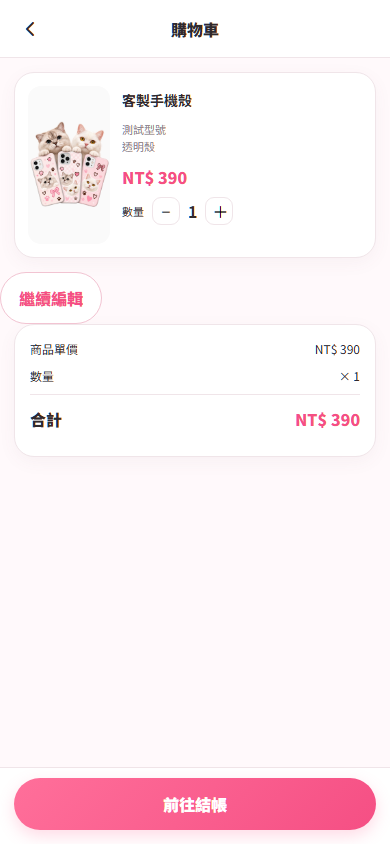
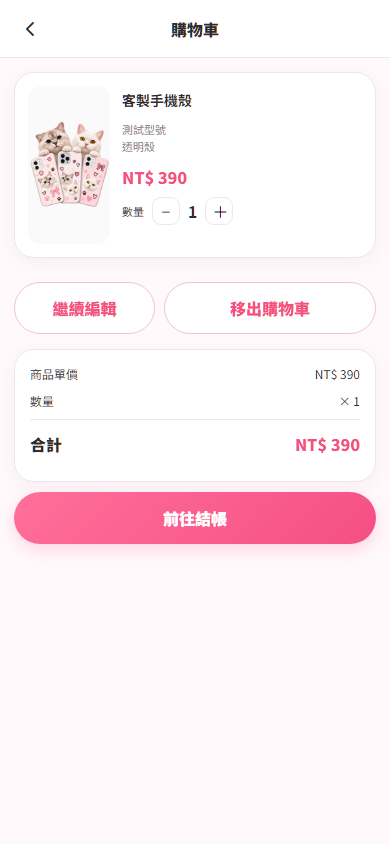
Preserve conflicting edits and verify product changes before checkout

diff --git a/static/front-design-draft-v1.js b/static/front-design-draft-v1.js
@@ -20,7 +20,7 @@
   const INVALID_ERROR = '上次的設計草稿已無法安全恢復，請刪除舊草稿並重新開始。';
   const QUOTA_ERROR = '此設計圖片較大，自動儲存空間不足，請不要關閉頁面。';
 
-  let saveTimer = 0;
+  let saveTimer = 0, dirty = false, changedAt = 0, edits = 0;
   let suspended = false;
   let autosaveEnabled = true;
   let cachedDraft = null;
@@ -55,6 +55,7 @@
     toast(isQuotaError(error) ? QUOTA_ERROR : (error?.message || '草稿未能保存，請不要關閉頁面。'));
   }
   function activate(key, raw) {
+    dirty = false; changedAt = 0;
     activeKey = key;
     revision = raw?.revision || raw?.updatedAt || null;
     draftName = raw?.name || '';
@@ -62,7 +63,7 @@
   }
   function buildDraft() {
     const c = getCanvas(), state = getContext();
-    if (!editorHasSession || !c || !state || !state.modelId || !state.styleId) return null;
+    if ((!editorHasSession && !byId('page-editor')?.classList.contains('active')) || !c || !state || !state.modelId || !state.styleId) return null;
     const canvasJson = structuredClone(c.toDatalessJSON(DRAFT_CUSTOM_PROPS));
     return {
       version: DRAFT_VERSION,
@@ -85,22 +86,23 @@
     let draft;
     try { draft = buildDraft(); } catch (error) { warnSave(error); return false; }
     if (!draft) return false;
-    const key = activeKey;
+    const key = activeKey, captured = edits;
     const run = async () => {
       if (key !== activeKey || suspended || !autosaveEnabled) return false;
       const next = {...draft, name:draftName || [ctx.modelName,ctx.styleName].filter(Boolean).join(' · '), revision:crypto.randomUUID()};
-      let packedCopy;
+      let packed;
       try {
-        packedCopy = await store.pack(next);
-        await store.change(key,revision,()=>packedCopy);
+        packed = await store.pack(next);
+        await store.change(key,revision,()=>packed);
         revision = next.revision;
+        if(captured===edits)dirty=false;
         return true;
       } catch(error) {
         if(error?.name==='DraftConflict' && key===activeKey) {
           activate(DRAFT_KEY+':'+crypto.randomUUID(),null);
           draftName=(next.name || '未命名設計')+'（分頁副本）';
           try {
-            await store.change(activeKey,null,()=>({...packedCopy,name:draftName}));
+            await store.change(activeKey,null,()=>({...packed,name:draftName}));
             revision=next.revision;
             toast('另一分頁已變更，這次修改已另存為分頁副本。');
             return true;
@@ -116,13 +118,16 @@
   function scheduleSave() {
     if (suspended || !autosaveEnabled || !getCanvas() || !byId('page-editor')?.classList.contains('active')) return;
     clearTimeout(saveTimer);
-    saveTimer = setTimeout(() => { saveNow(); }, DEBOUNCE_MS);
+    if(!dirty || !changedAt)changedAt=Date.now();
+    dirty=true; edits++;
+    saveTimer = setTimeout(() => {changedAt=0;saveNow();}, Math.min(DEBOUNCE_MS,Math.max(0,2000-(Date.now()-changedAt))));
   }
 
-  async function readDraft(key) {
+  async function readDraft(key,withImages=true) {
     try {
       key ||= (await store.list())[0]?.key;
-      cachedDraft = key ? await store.unpack(await idbGet(key)) : null;
+      cachedDraft = key ? await idbGet(key) : null;
+      if (withImages) cachedDraft = await store.unpack(cachedDraft);
       if (cachedDraft) cachedDraft.key = key;
       await prepareDraftGeometry(cachedDraft);
       return cachedDraft;
@@ -189,7 +194,7 @@
       const data = currentShopData();
       const model = (data && data.models || []).find(item => item && item.status !== false && String(item.id) === String(raw.modelId));
       const style = (data && data.styles || []).find(item => item && item.status !== false && String(item.id) === String(raw.styleId));
-      if (!model || !style) return { ok: false, reason: 'missing-product', message: INVALID_ERROR };
+      if (!window.BenfuwanProducts.ready(model,style)) return { ok: false, reason: 'missing-product', message: INVALID_ERROR };
       const resolver = window.BenfuwanModelProfile;
       const profile = resolver && resolver.profileFor ? resolver.profileFor(model, style.id) : null;
       if (!profile || !profile.ready) return { ok: false, reason: 'profile-not-ready', message: INVALID_ERROR };
@@ -252,7 +257,7 @@
 
   async function refreshPrompt() {
     installPrompt();
-    const raw = await readDraft();
+    const raw = await readDraft(null,false);
     if (!raw) { setPrompt('hidden'); return null; }
     const inspection = inspectDraft(raw);
     setPrompt(inspection.ok ? 'ready' : 'invalid', inspection.message);
@@ -267,6 +272,7 @@
 
   async function continueEditing(key) {
     if (suspended) return false;
+    if (dirty && !await saveNow()) return false;
     await queue;
     const raw = await readDraft(key || cachedDraft?.key);
     await prepareDraftGeometry(raw);
@@ -293,6 +299,7 @@
 
       restoringHistory = true;
       await loadCanvasJson(canvas, inspection.canvasJson);
+      if (ctx.printLineUrl) await window.BenfuwanPrintMask.ensureClip(canvas,ctx.printLineUrl);
       if (canvas.getObjects().length !== inspection.canvasJson.objects.length)
         throw Error('圖片未完整恢復，請確認連線後再試。');
       rehydrateCanvas();
@@ -360,7 +367,8 @@
   const originalStartNewDesign = window.startNewDesign;
   if (typeof originalStartNewDesign === 'function') {
     window.startNewDesign = async function () {
-      if (saveTimer && editorHasSession && getCanvas() && !await saveNow()) return false;
+      if (dirty && editorHasSession && getCanvas() && !await saveNow()) return false;
+      await queue;
       const rows = await store.list();
       activate(rows.some(row=>row.key===DRAFT_KEY) ? DRAFT_KEY + ':' + crypto.randomUUID() : DRAFT_KEY,null);
       cachedDraft = null;
@@ -391,7 +399,7 @@
       try { emptyCart = typeof cartItem !== 'undefined' && cartItem === null; } catch (e) {}
       if (!wasSuccess && success && emptyCart) {
         if (ordered?.draftKey) {
-          if (ordered.draftKey === activeKey) { autosaveEnabled = false; clearTimeout(saveTimer); }
+          if (ordered.draftKey === activeKey) { autosaveEnabled = false; dirty=false; clearTimeout(saveTimer); }
           await queue;
           try { await store.change(ordered.draftKey,ordered.draftRevision,()=>null); }
           catch(error) { console.warn('[DESIGN DRAFT] kept newer draft',error); }
@@ -406,10 +414,18 @@
     if (document.visibilityState === 'hidden' && byId('page-editor')?.classList.contains('active')) saveNow();
   });
 
-  window.addEventListener('pagehide', () => { if (saveTimer) saveNow(); });
+  const resetHome = window.resetToHome;
+  window.resetToHome = async function(){
+    if(dirty && !await saveNow())return;
+    await queue;
+    return resetHome.apply(this,arguments);
+  };
+  window.addEventListener('pagehide', () => { if (dirty) saveNow(); });
+  window.addEventListener('online', () => { if(dirty) saveNow(); });
+  window.addEventListener('beforeunload', event => { if(dirty){event.preventDefault();event.returnValue='';} });
   const show = window.showPage;
   window.showPage = function(page) {
-    if (page !== 'page-editor' && saveTimer && byId('page-editor')?.classList.contains('active')) saveNow();
+    if (page !== 'page-editor' && dirty && byId('page-editor')?.classList.contains('active')) saveNow();
     return show.apply(this,arguments);
   };
 

diff --git a/static/front-design-cart.js b/static/front-design-cart.js
@@ -3,10 +3,35 @@
   'use strict';
   const drafts = window.BenfuwanDesignDraft;
   const prefix = 'saved-cart:';
+  const summaries = 'cart-summary:';
   let saving = false;
   const same = (a,b) => (!a && !b) || (!!a && !!b && a.draftKey === b.draftKey &&
     a.draftRevision === b.draftRevision && a.orderKey === b.orderKey &&
     a.quantity === b.quantity && a.payment === b.payment && a.printBase64 === b.printBase64);
+
+  async function productStamp(item,catalog) {
+    const model=catalog.models.find(m=>m.id===item.modelId && m.status!==false);
+    const style=catalog.styles.find(s=>s.id===item.styleId && s.status!==false);
+    const resolver=window.BenfuwanModelProfile;
+    if (!BenfuwanProducts.ready(model,style)) throw Error('商品已下架或款式已變更，請返回設計確認。');
+    const profile=resolver.profileFor(model,style.id);
+    if (!profile.ready) throw Error('商品設定已更新，請返回設計確認。');
+    const fields=[model.name,style.name,BenfuwanProducts.type(model),Number(style.price),
+      style.model_colors?.[model.id] || style.colors,profile.previewUrl,profile.printUrl,
+      profile.printW,profile.printH,profile.printX,profile.printY,profile.printAngle];
+    const hash=await crypto.subtle.digest('SHA-256',new TextEncoder().encode(JSON.stringify(fields)));
+    return Array.from(new Uint8Array(hash),b=>b.toString(16).padStart(2,'0')).join('');
+  }
+  async function currentProduct(item) {
+    if (!item?.productStamp || item.orderKey) return true;
+    try {
+      const response=await fetch('/api/shop_data',{cache:'no-store'});
+      if (!response.ok) throw Error('無法確認最新商品資料，請連線後再試。');
+      const json=await response.json(), catalog=json.data||json;
+      if (item.productStamp!==await productStamp(item,catalog)) throw Error('商品或價格已更新，請按「繼續編輯」確認並重新儲存。');
+      return true;
+    } catch(error){toast(error.message || '無法確認最新商品資料');return false;}
+  }
 
   async function exchange(expected, target, newItem) {
     const db = await openIdb();
@@ -23,8 +48,11 @@
           if (current && current.draftKey !== target) {
             const key = current.draftKey || crypto.randomUUID();
             store.put({...current,draftKey:key},prefix+key);
+            const {modelName,styleName,colorName,quantity,payment,price,orderKey,draftRevision}=current;
+            store.put({draftKey:key,modelName,styleName,colorName,quantity,payment,price,orderKey,draftRevision},summaries+key);
           }
           store.delete(prefix+target);
+          store.delete(summaries+target);
           store.put(selected,'cart');
         };
       };
@@ -46,6 +74,7 @@
       const expected = cartItem;
       if (!expected || saving) return;
       return withCartLock(async()=>{
+        if (name==='submitOrder' && !await currentProduct(expected)) return;
         if (!same(expected,await idbGet('cart'))) { toast('購物車已變更，請重新開啟確認。');return; }
         return original.apply(this,args);
       });
@@ -59,10 +88,12 @@
     saving = true;
     try {
       if (previous?.orderKey) throw Error('上次送單結果尚待確認，請先返回結帳確認。');
-      if (!await drafts.saveNow()) return;
+      const originalKey=drafts.key;
+      if (!await drafts.saveNow() || drafts.key!==originalKey) return;
       await confirmCart.apply(this,arguments);
       if (!cartItem || cartItem === previous) return;
       const item = {...cartItem,draftKey:drafts.key,draftRevision:drafts.revision};
+      item.productStamp=await productStamp(item,shopData);
       cartItem = await withCartLock(()=>exchange(previous,drafts.key,item));
       if (!cartItem) throw Error('購物車未能保存');
       updateCartBadge();renderCart();navigate('page-cart');toast('已儲存至購物車');
@@ -71,10 +102,31 @@
       toast(error.message || '購物車儲存失敗，草稿已保留。');
     } finally { saving = false; }
   };
+  async function remove(item,parked=false) {
+    if (!item || saving || item.orderKey) return toast('此項目暫時無法移除，請先確認送單結果。');
+    if (!confirm('從購物車移除這項商品？已保存的草稿會保留在「我的設計」。')) return;
+    await withCartLock(async()=>{
+      try {
+        const db=await openIdb(), key=parked?prefix+item.draftKey:'cart';
+        await new Promise((resolve,reject)=>{
+          const tx=db.transaction(IDB_STORE,'readwrite'),store=tx.objectStore(IDB_STORE);
+          store.get(key).onsuccess=e=>{
+            const stored=e.target.result;
+            if(!stored || stored.orderKey || (parked?stored.draftRevision!==item.draftRevision:!same(item,stored))){tx.abort();return;}
+            store.delete(key);
+            if(parked)store.delete(summaries+item.draftKey);
+          };
+          tx.oncomplete=resolve;tx.onabort=()=>reject(Error('購物車已變更，請重新確認。'));
+        });
+        cartItem=await idbGet('cart');updateCartBadge();renderCart();
+      } catch(error){toast(error.message);}
+    });
+  }
   async function edit(item) {
     if (saving) return;
     if (item.orderKey) return toast('此項目已有送單紀錄，請先確認送單結果。');
     if (!item.draftKey || !await idbGet(item.draftKey)) return toast('此舊項目沒有可還原的編輯草稿。');
+    try { await loadAll(); } catch(error) { return toast('無法確認最新商品資料，草稿已保留，請連線後再試。'); }
     if (await drafts.continueEditing(item.draftKey)) {
       ctx.quantity = item.quantity; ctx.payment = item.payment;
       document.querySelector('.preview-buttons .primary').textContent = '儲存購物車修改';
@@ -83,7 +135,7 @@
   async function others() {
     const db = await openIdb();
     return new Promise((resolve,reject) => {
-      const req = db.transaction(IDB_STORE).objectStore(IDB_STORE).getAll(IDBKeyRange.bound(prefix,prefix+'\uffff'));
+      const req = db.transaction(IDB_STORE).objectStore(IDB_STORE).getAll(IDBKeyRange.bound(summaries,summaries+'\uffff'));
       req.onsuccess=()=>resolve(req.result);req.onerror=()=>reject(req.error);
     });
   }
@@ -119,10 +171,17 @@
           try { cartItem=await withCartLock(()=>exchange(cartItem,item.draftKey,null));updateCartBadge();goCheckoutFromCart(); }
           catch(error){toast(error.message);}
         };
-        row.append(title,editBtn,checkout);host.append(row);
+        const del=document.createElement('button');del.className='secondary';del.textContent='移出購物車';del.onclick=()=>remove(item,true);
+        const detail=document.createElement('p');detail.textContent='NT$ '+Number(item.price).toLocaleString()+' × '+item.quantity;
+        row.append(title,detail,editBtn,checkout,del);host.append(row);
       }
     }).catch(error=>toast(error.message));
   };
+  const checkout=window.goCheckoutFromCart;
+  window.goCheckoutFromCart=async function(){
+    const item=cartItem;
+    if(!saving && await currentProduct(item) && item===cartItem) checkout.apply(this,arguments);
+  };
   window.openCartFromNav=async function(){cartItem=await idbGet('cart');renderCart();navigate('page-cart');};
-  window.BenfuwanDraftCart={edit, get staging(){return saving;}};
+  window.BenfuwanDraftCart={edit,remove, get staging(){return saving;}};
 })();

diff --git a/static/index-base-20260913.html b/static/index-base-20260913.html
@@ -174,12 +174,12 @@
       </div>
       <div id="cart-filled" class="cart-filled">
         <div class="card cart-card"><img id="cart-image"><div class="cart-info"><h3>客製手機殼</h3><p id="cart-desc"></p><div class="cart-price" id="cart-price"></div><div class="qty"><span style="font-size:11px">數量</span><button onclick="changeQty(-1)">−</button><b id="qty-value">1</b><button onclick="changeQty(1)">＋</button></div></div></div>
-        <button class="secondary" type="button" onclick="BenfuwanDraftCart.edit(cartItem)">繼續編輯</button>
+        <div class="preview-buttons"><button class="secondary" type="button" onclick="BenfuwanDraftCart.edit(cartItem)">繼續編輯</button><button class="secondary" type="button" onclick="BenfuwanDraftCart.remove(cartItem)">移出購物車</button></div>
         <div class="card summary"><div class="sum-row"><span>商品單價</span><span id="sum-unit"></span></div><div class="sum-row"><span>數量</span><span id="sum-qty"></span></div><div class="sum-row total"><span>合計</span><span id="sum-total" style="color:var(--pink-dark)"></span></div></div>
+        <div id="cart-checkout-bar" class="cart-checkout-bar"><button class="primary" onclick="goCheckoutFromCart()">前往結帳</button></div>
       </div>
       <div id="cart-other-items"></div>
     </div>
-    <div id="cart-checkout-bar" class="sticky-action cart-checkout-bar"><button class="primary" onclick="goCheckoutFromCart()">前往結帳</button></div>
   </section>
 
   <!-- CHECKOUT -->

diff --git a/static/front-home-v1.css b/static/front-home-v1.css
@@ -55,3 +55,9 @@
 @media (max-width:360px){.bf-home-content{padding-left:10px;padding-right:10px}.bf-home-hero{min-height:0}.bf-home-hero h1{font-size:30px}.bf-home-hero-copy{min-height:100px;padding-top:16px}.bf-home-hero-art{width:100%;margin-top:0;margin-bottom:0}.bf-home-primary{grid-template-columns:50px minmax(0,1fr) 16px;padding:14px}.bf-home-primary-icon{width:49px;height:57px}.bf-home-primary strong{font-size:23px}.bf-home-quick{grid-template-columns:40px minmax(0,1fr);gap:8px;padding:11px}.bf-home-quick>i{display:none}.bf-home-quick-icon{width:40px}.bf-home-cat-banner{padding-left:44%}}
 @media (max-height:700px){.bf-home-hero{min-height:0}.bf-home-hero-art{width:88%;margin-top:0;margin-bottom:0}.bf-home-hero-copy{min-height:96px;padding-top:14px}.bf-home-hero h1{font-size:29px}.bf-home-primary{min-height:91px}.bf-home-quick{min-height:112px}}
 @media (prefers-reduced-motion:reduce){.bf-home-scroll{scroll-behavior:auto}}
+
+#cart-checkout-bar{margin:10px 14px 18px}
+#cart-checkout-bar button{width:100%}
+#cart-other-items>.card,#design-library{margin:12px 14px;padding:14px}
+#cart-other-items button,#design-library button{min-height:44px;padding:8px 12px;margin:4px}
+#design-library>div+div{border-top:1px solid #eadce1;margin-top:8px}

diff --git a/static/front-home-v1.js b/static/front-home-v1.js
@@ -35,7 +35,7 @@
     const token=++syncToken;
     let state='empty';
     try{
-      const raw=await api.readDraft();
+      const raw=await api.readDraft(null,false);
       if(raw)state=api.inspectDraft(raw).ok?'ready':'invalid';
     }catch(error){
       console.warn('[FRONT HOME] draft state unavailable',error);
@@ -60,7 +60,7 @@
     }
     panel.replaceChildren();
     const heading=document.createElement('h3');heading.textContent='我的設計';panel.append(heading);
-    const note=document.createElement('p');note.textContent='草稿保存在此瀏覽器，清除網站資料會一併刪除。';panel.append(note);
+    const note=document.createElement('p');note.textContent='草稿只保存在此瀏覽器，不會定期到期。刪除草稿或清除網站資料會移除圖片。共用裝置請於使用後清理。';panel.append(note);
     for(const row of rows){
       const section=document.createElement('div'),title=document.createElement('p');
       title.textContent=row.name;section.append(title);

diff --git a/.github/tests/test_ai_editor_webkit.py b/.github/tests/test_ai_editor_webkit.py
@@ -1084,7 +1084,17 @@ def design_draft_test(browser, base):
     assert page.evaluate("cartItem.draftKey") == key
     assert page.locator('#cart-other-items button').count() == 0
     assert page.evaluate("cartItem.productionMeta.dpi") == 720
+    updated_catalog=page.evaluate('structuredClone(shopData)')
+    for style in updated_catalog['styles']:style['price']=999
+    def changed_price(route):
+        route.fulfill(json=updated_catalog)
+    page.route('**/api/shop_data',changed_price)
     page.locator('#cart-checkout-bar button').click()
+    poll(page,"()=>document.querySelector('#toast').textContent.includes('商品或價格已更新')")
+    assert page.locator('#page-cart').evaluate("e=>e.classList.contains('active')")
+    page.unroute('**/api/shop_data',changed_price)
+    page.locator('#cart-checkout-bar button').click()
+    poll(page,"()=>document.querySelector('#page-checkout.active')")
     page.evaluate("""async () => {
       document.getElementById('form-surname').value='草稿';
       await submitOrder();
@@ -1130,6 +1140,50 @@ def design_draft_test(browser, base):
     }""", initial)
     assert guarded == {'kept':True,'fresh':True,'choosing':True}, guarded
     print('FRONT_DESIGN_DRAFT_NEW_DESIGN_PRESERVED_OK')
+    # Two independent guest designs, including a stale tab and a failed save.
+    async_design = """async label=>{
+      await startNewDesign();
+      const m=shopData.models[0],s=shopData.styles[0];selectModel(m);selectStyle(s);chooseCaseColor('透明');
+      await startEditor(false);
+      canvas.add(new fabric.Text(label,{role:'text',fontFamily:'jf-openhuninn'}));recordHistory();
+      await openPreview();await confirmDesignToCart();
+      return cartItem.draftKey;
+    }"""
+    first=page.evaluate(async_design,'設計 A')
+    second=page.evaluate(async_design,'設計 B')
+    assert first != second
+    poll(page,"() => document.querySelectorAll('#cart-other-items > div').length===1 && document.querySelector('#cart-badge').textContent==='2'")
+    page.locator('#cart-other-items').get_by_role('button',name='繼續編輯').click()
+    poll(page,"() => ctx.modelId && canvas?.getObjects().some(o=>o.text==='設計 A') && !BenfuwanDesignDraft.state().suspended")
+    other=context.new_page()
+    other.goto(base+'/',wait_until='domcontentloaded')
+    poll(other,"() => window.BenfuwanFrontHomeV1?.isCatalogReady()")
+    assert other.evaluate("key=>BenfuwanDesignDraft.continueEditing(key)",first)
+    assert other.evaluate("async()=>{setCanvasBackground('#abc123');return await BenfuwanDesignDraft.saveNow()}")
+    assert page.evaluate("async()=>{setCanvasBackground('#456789');return await BenfuwanDesignDraft.saveNow()}")
+    copy=page.evaluate('BenfuwanDesignDraft.key')
+    assert copy != first and page.evaluate("key=>idbGet(key).then(d=>d.backgroundColor)",first)=='#abc123'
+    other.close()
+    page.evaluate("()=>showPage('page-home')")
+    page.locator('#home-design-card').click()
+    row=page.locator('#design-library > div').filter(has_text='分頁副本')
+    page.once('dialog',lambda dialog:dialog.accept('紀念款'))
+    row.get_by_role('button',name='重新命名').click()
+    renamed=page.locator('#design-library > div').filter(has_text='紀念款')
+    page.once('dialog',lambda dialog:dialog.accept())
+    renamed.get_by_role('button',name='刪除').click()
+    poll(page,"()=>!document.querySelector('#design-library')?.innerText.includes('紀念款')")
+    assert page.evaluate("key=>idbGet(key)",copy) is None
+    page.evaluate("openCartFromNav()")
+    page.locator('#cart-other-items').get_by_role('button',name='前往結帳').click()
+    poll(page,"()=>document.querySelector('#page-checkout.active')")
+    assert page.evaluate('cartItem.draftKey')==first
+    context.route('**/api/create_order',lambda route:route.abort('failed'))
+    page.locator('#form-surname').fill('測試')
+    page.locator('#submit-order').click()
+    poll(page,"()=>document.querySelector('#toast').textContent.includes('送單失敗')")
+    assert page.evaluate("async()=>!!(await idbGet('cart'))?.orderKey && (await BenfuwanDraftStore.list()).length>=2")
+    print('GUEST_MULTI_CART_CONFLICT_LIBRARY_NETWORK_FAILURE_OK')
     context.close()
 
 
